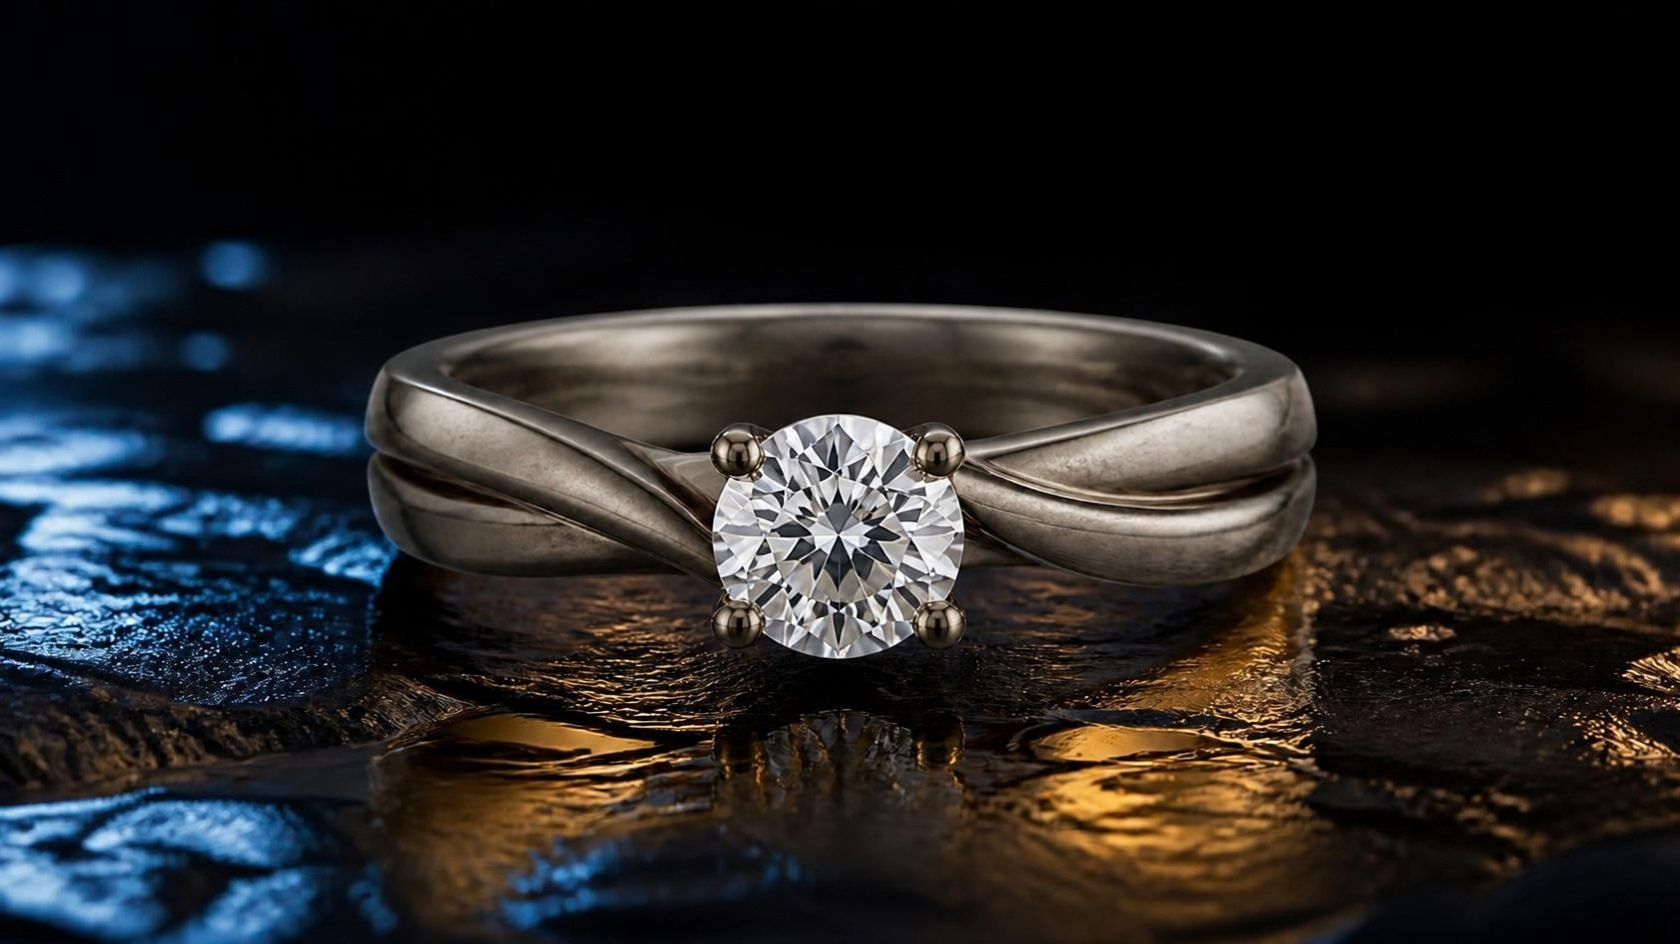
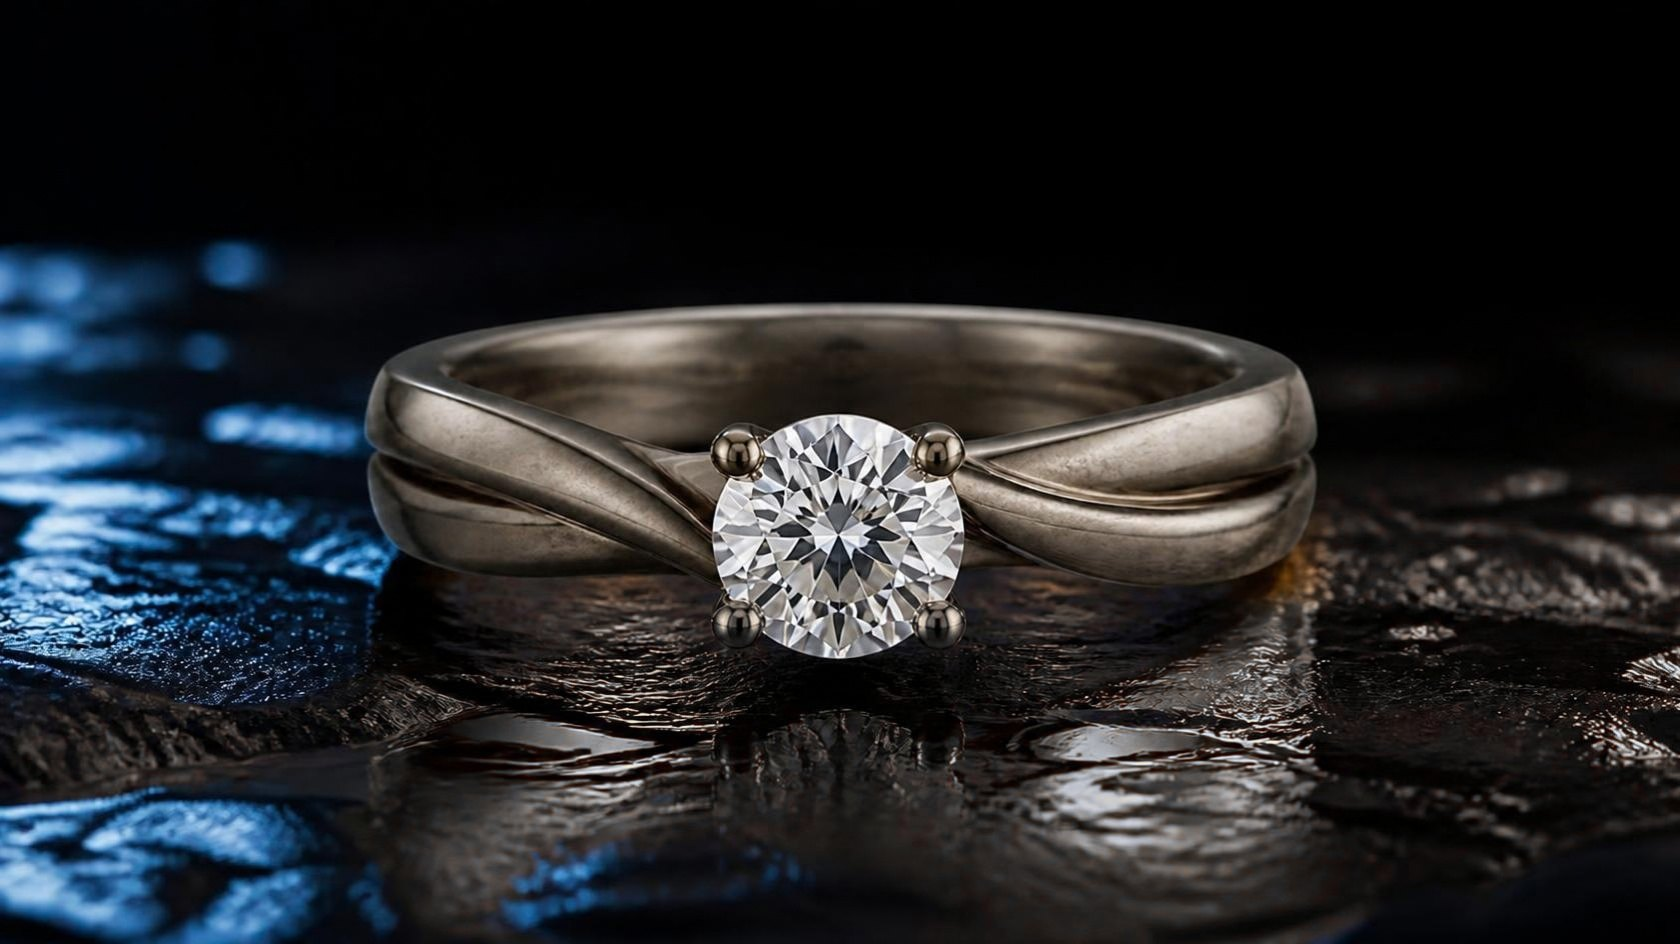
Ajustes do cliente: textos, vírgulas, ícone de conversa, sem ródio, reflexo prateado e Limeira capital da joia folheada

diff --git a/audace-galvanica/index.html b/audace-galvanica/index.html
@@ -16,7 +16,7 @@
   <meta property="og:title" content="Audace Galvânica | Banhos para Semijoias em Limeira-SP">
   <meta property="og:image:width" content="1200">
   <meta property="og:image:height" content="630">
-  <meta property="og:image:alt" content="Kit de semijoias com banho de ródio sobre pedra e água, com o logo da Audace Galvânica">
+  <meta property="og:image:alt" content="Kit de semijoias com acabamento prateado sobre pedra e água, com o logo da Audace Galvânica">
   <meta name="twitter:card" content="summary_large_image">
   <meta name="twitter:title" content="Audace Galvânica | Banhos para Semijoias em Limeira-SP">
   <meta name="twitter:description" content="Consultoria especializada em banhos para semijoias. Entenda quais acabamentos fazem sentido para sua marca, suas peças e o momento do seu negócio.">
@@ -66,10 +66,10 @@
     },
     {
       "@type": "Question",
-      "name": "Qual é a diferença entre banho de ouro, prata e ródio?",
+      "name": "Qual é a diferença entre banho de ouro e prata?",
       "acceptedAnswer": {
         "@type": "Answer",
-        "text": "São acabamentos com aparência e comportamento diferentes. O banho de ouro dá o tom dourado, e sua durabilidade depende principalmente da espessura da camada. O banho de prata tem tom branco e tende a escurecer com o tempo por oxidação, o que costuma pedir uma camada de proteção. O ródio, metal do grupo da platina, tem brilho branco intenso e alta resistência a riscos e ao escurecimento. A escolha certa depende do estilo das peças, do público e do posicionamento da marca, e é isso que a consultoria ajuda a definir."
+        "text": "São acabamentos com aparência e comportamento diferentes. O banho de ouro dá o tom dourado, e sua durabilidade depende principalmente da espessura da camada. O banho de prata tem tom branco e tende a escurecer com o tempo por oxidação, o que costuma pedir uma camada de proteção. A escolha certa depende do estilo das peças, do público e do posicionamento da marca, e é isso que a consultoria ajuda a definir."
       }
     },
     {
@@ -157,7 +157,7 @@
     <!-- ================= 01 HERO ================= -->
     <section class="section hero" id="hero" aria-labelledby="hero-title" data-parallax="3">
       <div class="section__bg">
-        <picture><source type="image/webp" srcset="images/fotos/kit-rodio-pedra-agua_420w.webp 420w, images/fotos/kit-rodio-pedra-agua_700w.webp 700w, images/fotos/kit-rodio-pedra-agua_860w.webp 860w, images/fotos/kit-rodio-pedra-agua_1122w.webp 1122w" sizes="(min-width: 1024px) 62vw, 100vw"><img src="images/fotos/kit-rodio-pedra-agua.jpg" alt="Kit de semijoias com banho de ródio: corrente, pulseira, brincos e anéis sobre pedra escura e água" width="1122" height="1402" fetchpriority="high" decoding="async"></picture>
+        <picture><source type="image/webp" srcset="images/fotos/kit-rodio-pedra-agua_420w.webp 420w, images/fotos/kit-rodio-pedra-agua_700w.webp 700w, images/fotos/kit-rodio-pedra-agua_860w.webp 860w, images/fotos/kit-rodio-pedra-agua_1122w.webp 1122w" sizes="(min-width: 1024px) 62vw, 100vw"><img src="images/fotos/kit-rodio-pedra-agua.jpg" alt="Kit de semijoias com acabamento prateado: corrente, pulseira, brincos e anéis sobre pedra escura e água" width="1122" height="1402" fetchpriority="high" decoding="async"></picture>
       </div>
 
       <div class="container hero__inner">
@@ -189,7 +189,7 @@
     <section class="section consult" id="consultoria" aria-labelledby="consult-title">
       <canvas class="beams" data-beams aria-hidden="true"></canvas>
       <div class="section__bg">
-        <picture><source type="image/webp" srcset="images/fotos/modelo-semijoias-rodio-luz-azul_420w.webp 420w, images/fotos/modelo-semijoias-rodio-luz-azul_700w.webp 700w, images/fotos/modelo-semijoias-rodio-luz-azul_860w.webp 860w, images/fotos/modelo-semijoias-rodio-luz-azul_1122w.webp 1122w" sizes="(min-width: 1024px) 48vw, 100vw"><img src="images/fotos/modelo-semijoias-rodio-luz-azul.jpg" alt="Modelo usando brincos, anéis, pulseira e corrente de semijoias com banho de ródio" width="1122" height="1402" loading="lazy" decoding="async"></picture>
+        <picture><source type="image/webp" srcset="images/fotos/modelo-semijoias-rodio-luz-azul_420w.webp 420w, images/fotos/modelo-semijoias-rodio-luz-azul_700w.webp 700w, images/fotos/modelo-semijoias-rodio-luz-azul_860w.webp 860w, images/fotos/modelo-semijoias-rodio-luz-azul_1122w.webp 1122w" sizes="(min-width: 1024px) 48vw, 100vw"><img src="images/fotos/modelo-semijoias-rodio-luz-azul.jpg" alt="Modelo usando brincos, anéis, pulseira e corrente de semijoias com acabamento prateado" width="1122" height="1402" loading="lazy" decoding="async"></picture>
       </div>
 
       <div class="container split split--media-left">
@@ -213,7 +213,7 @@
         <div class="split__copy">
           <h2 class="display section-title" id="strategy-title" data-reveal>Uma conversa estratégica<br class="br-d"> para <span class="gold">o seu negócio.</span></h2>
           <p class="body-text" data-reveal style="--i:2">Nosso time conversa com você para entender<br class="br-d"> o perfil da sua marca, o posicionamento da sua<br class="br-d"> coleção, o público que deseja alcançar, a realidade<br class="br-d"> da sua operação e os resultados que espera das peças.</p>
-          <p class="body-text" data-reveal style="--i:2">A partir desse diagnóstico, você recebe<br class="br-d"> uma orientação mais estratégica para definir<br class="br-d"> as melhores possibilidades de banho para o seu projeto.</p>
+          <p class="body-text" data-reveal style="--i:2">A partir desse diagnóstico, você recebe<br class="br-d"> uma orientação estratégica para definir<br class="br-d"> as melhores possibilidades de banhos para o seu projeto.</p>
         </div>
         <ul class="side-words strategy__side-words" data-credits aria-label="Pilares da consultoria">
           <li>TÉCNICA</li>
@@ -240,28 +240,28 @@
           </li>
           <li class="benefit" data-reveal>
             <svg class="benefit__icon" aria-hidden="true" focusable="false" xmlns="http://www.w3.org/2000/svg" viewBox="0 0 64 64"><g fill="none" stroke="#887040" stroke-width="3" stroke-linecap="round" stroke-linejoin="round"><circle pathLength="1" cx="30" cy="34" r="20"/><circle pathLength="1" cx="30" cy="34" r="11"/><circle pathLength="1" cx="30" cy="34" r="3"/><path pathLength="1" d="M33 31 53 11M43 11h10v10"/></g></svg>
-            <h3 class="benefit__title">Investimento<br class="br-d"> mais assertivo</h3>
+            <h3 class="benefit__title">Investimento<br class="br-d"> mais assertivo,</h3>
             <p class="benefit__body">evitando escolhas<br class="br-d"> baseadas apenas em<br class="br-d"> preço ou padrão<br class="br-d"> de mercado.</p>
           </li>
           <li class="benefit" data-reveal>
             <svg class="benefit__icon" aria-hidden="true" focusable="false" xmlns="http://www.w3.org/2000/svg" viewBox="0 0 64 64"><g fill="none" stroke="#887040" stroke-width="3" stroke-linecap="round" stroke-linejoin="round"><circle pathLength="1" cx="25" cy="22" r="8"/><circle pathLength="1" cx="43" cy="25" r="6"/><path pathLength="1" d="M10 49c0-9 6-15 15-15s15 6 15 15v3H10zM38 37c8 0 14 5 14 13v2H40"/></g></svg>
-            <h3 class="benefit__title">Orientação<br class="br-d"> personalizada</h3>
+            <h3 class="benefit__title">Orientação<br class="br-d"> personalizada,</h3>
             <p class="benefit__body">considerando as<br class="br-d"> características e<br class="br-d"> objetivos do seu negócio.</p>
           </li>
           <li class="benefit" data-reveal>
             <svg class="benefit__icon" aria-hidden="true" focusable="false" xmlns="http://www.w3.org/2000/svg" viewBox="0 0 64 64"><g fill="none" stroke="#887040" stroke-width="3" stroke-linecap="round" stroke-linejoin="round"><path pathLength="1" d="M12 23 21 12h22l9 11-20 29z"/><path pathLength="1" d="M12 23h40M21 12l11 40 11-40M21 23h22"/></g></svg>
-            <h3 class="benefit__title">Mais coerência<br class="br-d"> entre produto<br class="br-d"> e posicionamento</h3>
+            <h3 class="benefit__title">Mais coerência<br class="br-d"> entre produto<br class="br-d"> e posicionamento,</h3>
             <p class="benefit__body">para que o acabamento<br class="br-d"> das peças converse<br class="br-d"> com a identidade da marca.</p>
           </li>
           <li class="benefit" data-reveal>
             <svg class="benefit__icon" aria-hidden="true" focusable="false" xmlns="http://www.w3.org/2000/svg" viewBox="0 0 64 64"><g fill="none" stroke="#887040" stroke-width="3" stroke-linecap="round" stroke-linejoin="round"><path pathLength="1" d="M10 54h44"/><rect pathLength="1" x="14" y="37" width="8" height="17"/><rect pathLength="1" x="28" y="27" width="8" height="27"/><rect pathLength="1" x="42" y="16" width="8" height="38"/></g></svg>
-            <h3 class="benefit__title">Conhecimento<br class="br-d"> para planejar melhor</h3>
+            <h3 class="benefit__title">Conhecimento<br class="br-d"> para planejar melhor,</h3>
             <p class="benefit__body">entendendo possibilidades,<br class="br-d"> características e cuidados<br class="br-d"> dos diferentes tipos<br class="br-d"> de banho.</p>
           </li>
           <li class="benefit" data-reveal>
-            <svg class="benefit__icon" aria-hidden="true" focusable="false" xmlns="http://www.w3.org/2000/svg" viewBox="0 0 64 64"><g fill="none" stroke="#887040" stroke-width="3" stroke-linecap="round" stroke-linejoin="round"><circle pathLength="1" cx="32" cy="32" r="8"/><path pathLength="1" d="M32 8v7M32 49v7M8 32h7M49 32h7M15 15l5 5M44 44l5 5M49 15l-5 5M20 44l-5 5"/><circle pathLength="1" cx="32" cy="32" r="19"/></g></svg>
+            <svg class="benefit__icon" aria-hidden="true" focusable="false" xmlns="http://www.w3.org/2000/svg" viewBox="0 0 64 64"><g fill="none" stroke="#887040" stroke-width="3" stroke-linecap="round" stroke-linejoin="round"><path pathLength="1" d="M13 12h38a5 5 0 0 1 5 5v22a5 5 0 0 1-5 5H29l-11 9v-9h-5a5 5 0 0 1-5-5V17a5 5 0 0 1 5-5z"/><path pathLength="1" d="M22 28h.01M32 28h.01M42 28h.01"/></g></svg>
             <h3 class="benefit__title">Conversa com<br class="br-d"> quem entende</h3>
-            <p class="benefit__body">com experiência prática<br class="br-d"> em galvanoplastia<br class="br-d"> de semijoias.</p>
+            <p class="benefit__body">e tem experiência prática<br class="br-d"> em galvanoplastia<br class="br-d"> de semijoias.</p>
           </li>
         </ul>
       </div>
@@ -279,7 +279,7 @@
           <li class="step" data-reveal>
             <div class="step__visual">
               <span class="step__number" aria-hidden="true">01</span>
-              <figure class="step__media"><picture><source type="image/webp" srcset="images/fotos/modelo-semijoias-rodio-olhar_420w.webp 420w, images/fotos/modelo-semijoias-rodio-olhar_700w.webp 700w, images/fotos/modelo-semijoias-rodio-olhar_860w.webp 860w, images/fotos/modelo-semijoias-rodio-olhar_1122w.webp 1122w" sizes="(min-width: 1024px) 24vw, (min-width: 768px) 33vw, 100vw"><img src="images/fotos/modelo-semijoias-rodio-olhar.jpg" alt="Modelo usando semijoias com banho de ródio, representando a identidade da marca" width="1122" height="1402" loading="lazy" decoding="async"></picture></figure>
+              <figure class="step__media"><picture><source type="image/webp" srcset="images/fotos/modelo-semijoias-rodio-olhar_420w.webp 420w, images/fotos/modelo-semijoias-rodio-olhar_700w.webp 700w, images/fotos/modelo-semijoias-rodio-olhar_860w.webp 860w, images/fotos/modelo-semijoias-rodio-olhar_1122w.webp 1122w" sizes="(min-width: 1024px) 24vw, (min-width: 768px) 33vw, 100vw"><img src="images/fotos/modelo-semijoias-rodio-olhar.jpg" alt="Modelo usando semijoias com acabamento prateado, representando a identidade da marca" width="1122" height="1402" loading="lazy" decoding="async"></picture></figure>
             </div>
             <h3 class="step__title"><span class="visually-hidden">Etapa 1: </span>Entendemos<br class="br-d"> sua marca</h3>
             <p class="step__body">Conversamos sobre o seu<br class="br-d"> posicionamento, público,<br class="br-d"> estilo das peças e objetivos.</p>
@@ -287,7 +287,7 @@
           <li class="step" data-reveal>
             <div class="step__visual">
               <span class="step__number" aria-hidden="true">02</span>
-              <figure class="step__media"><picture><source type="image/webp" srcset="images/fotos/kit-semijoias-rodio-zirconias_420w.webp 420w, images/fotos/kit-semijoias-rodio-zirconias_700w.webp 700w, images/fotos/kit-semijoias-rodio-zirconias_860w.webp 860w, images/fotos/kit-semijoias-rodio-zirconias_1122w.webp 1122w" sizes="(min-width: 1024px) 24vw, (min-width: 768px) 33vw, 100vw"><img src="images/fotos/kit-semijoias-rodio-zirconias.jpg" alt="Kit de corrente, pulseira, brincos e anéis com banho de ródio para análise" width="1122" height="1402" loading="lazy" decoding="async"></picture></figure>
+              <figure class="step__media"><picture><source type="image/webp" srcset="images/fotos/kit-semijoias-rodio-zirconias_420w.webp 420w, images/fotos/kit-semijoias-rodio-zirconias_700w.webp 700w, images/fotos/kit-semijoias-rodio-zirconias_860w.webp 860w, images/fotos/kit-semijoias-rodio-zirconias_1122w.webp 1122w" sizes="(min-width: 1024px) 24vw, (min-width: 768px) 33vw, 100vw"><img src="images/fotos/kit-semijoias-rodio-zirconias.jpg" alt="Kit de corrente, pulseira, brincos e anéis com acabamento prateado para análise" width="1122" height="1402" loading="lazy" decoding="async"></picture></figure>
             </div>
             <h3 class="step__title"><span class="visually-hidden">Etapa 2: </span>Analisamos<br class="br-d"> o projeto</h3>
             <p class="step__body">Avaliamos suas peças,<br class="br-d"> sua operação e o momento<br class="br-d"> do seu negócio.</p>
@@ -320,7 +320,7 @@
           <div class="compare__handle" aria-hidden="true"><span class="compare__knob"><svg viewBox="0 0 24 24" width="22" height="22" fill="none" stroke="currentColor" stroke-width="2" stroke-linecap="round" stroke-linejoin="round"><path d="M9 6l-6 6 6 6M15 6l6 6-6 6"/></svg></span></div>
           <input class="compare__range" type="range" min="0" max="100" value="50" step="1" aria-label="Comparar o anel bruto com o anel banhado a ouro">
         </div>
-        <p class="compare__note">Imagem ilustrativa do processo.</p>
+        <p class="compare__note">Imagem meramente ilustrativa.</p>
       </div>
     </section>
 
@@ -360,7 +360,7 @@
         <div class="cta-form__statement">
           <p class="display statement statement--large" data-reveal data-gold-progress>Seu banho não precisa<br class="br-d"> seguir uma receita pronta. <span class="gold">Precisa fazer sentido<br class="br-d"> para o seu negócio.</span></p>
           <figure class="cta-form__media">
-            <picture><source type="image/webp" srcset="images/fotos/kit-semijoias-pedra-luz-azul_420w.webp 420w, images/fotos/kit-semijoias-pedra-luz-azul_700w.webp 700w, images/fotos/kit-semijoias-pedra-luz-azul_860w.webp 860w, images/fotos/kit-semijoias-pedra-luz-azul_1122w.webp 1122w" sizes="(min-width: 1024px) 52vw, 100vw"><img src="images/fotos/kit-semijoias-pedra-luz-azul.jpg" alt="Kit de semijoias com banho de ródio sobre pedra escura, com luz azul" width="1122" height="1402" loading="lazy" decoding="async"></picture>
+            <picture><source type="image/webp" srcset="images/fotos/kit-semijoias-pedra-luz-azul_420w.webp 420w, images/fotos/kit-semijoias-pedra-luz-azul_700w.webp 700w, images/fotos/kit-semijoias-pedra-luz-azul_860w.webp 860w, images/fotos/kit-semijoias-pedra-luz-azul_1122w.webp 1122w" sizes="(min-width: 1024px) 52vw, 100vw"><img src="images/fotos/kit-semijoias-pedra-luz-azul.jpg" alt="Kit de semijoias com acabamento prateado sobre pedra escura, com luz azul" width="1122" height="1402" loading="lazy" decoding="async"></picture>
           </figure>
         </div>
 
@@ -436,7 +436,7 @@
       <div class="container faq__inner">
         <header class="faq__head" data-reveal>
           <p class="eyebrow">PERGUNTAS FREQUENTES</p>
-          <h2 class="display section-title" id="faq-title">Dúvidas sobre banhos para semijoias e a consultoria.</h2>
+          <h2 class="display section-title" id="faq-title">Dúvidas sobre a consultoria e banhos para semijoias.</h2>
           <a class="faq__cta" href="#formulario">Solicitar consultoria <img class="btn__icon" src="icons/svg/arrow_right.svg" alt="" aria-hidden="true" width="16" height="16"></a>
         </header>
         <div class="faq__list" data-reveal style="--i:1">
@@ -453,8 +453,8 @@
             <p class="faq__a">Não. A consultoria atende quem já trabalha com semijoias, quem está começando e quem está estruturando a própria marca. No formulário você indica em qual desses momentos está.</p>
           </details>
           <details class="faq__item">
-            <summary><h3 class="faq__q">Qual é a diferença entre banho de ouro, prata e ródio?</h3></summary>
-            <p class="faq__a">São acabamentos com aparência e comportamento diferentes. O banho de ouro dá o tom dourado, e sua durabilidade depende principalmente da espessura da camada. O banho de prata tem tom branco e tende a escurecer com o tempo por oxidação, o que costuma pedir uma camada de proteção. O ródio, metal do grupo da platina, tem brilho branco intenso e alta resistência a riscos e ao escurecimento. A escolha certa depende do estilo das peças, do público e do posicionamento da marca, e é isso que a consultoria ajuda a definir.</p>
+            <summary><h3 class="faq__q">Qual é a diferença entre banho de ouro e prata?</h3></summary>
+            <p class="faq__a">São acabamentos com aparência e comportamento diferentes. O banho de ouro dá o tom dourado, e sua durabilidade depende principalmente da espessura da camada. O banho de prata tem tom branco e tende a escurecer com o tempo por oxidação, o que costuma pedir uma camada de proteção. A escolha certa depende do estilo das peças, do público e do posicionamento da marca, e é isso que a consultoria ajuda a definir.</p>
           </details>
           <details class="faq__item">
             <summary><h3 class="faq__q">Do que depende a durabilidade do banho de uma semijoia?</h3></summary>
@@ -473,8 +473,8 @@
       <canvas class="beams" data-beams aria-hidden="true"></canvas>
       <div class="container place__inner">
         <div class="place__copy" data-reveal>
-          <p class="eyebrow">ONDE ESTAMOS</p>
-          <h2 class="display section-title" id="place-title">Estamos em Limeira, <span class="gold">no interior de São Paulo.</span></h2>
+          <p class="eyebrow">NOSSA LOCALIZAÇÃO</p>
+          <h2 class="display section-title" id="place-title">Estamos em Limeira, <span class="gold">capital da joia folheada.</span></h2>
           <address class="place__address">
             Av. Marechal Floriano Peixoto, 176<br>
             Parque Hipolyto, Limeira - SP<br>
@@ -486,7 +486,7 @@
             <a class="btn btn--line" href="https://wa.me/5519994555679" target="_blank" rel="noopener"><img class="btn__icon" src="icons/svg/whatsapp.svg" alt="" aria-hidden="true" width="16" height="16"> FALAR NO WHATSAPP</a>
           </div>
         </div>
-        <figure class="place__media" data-reveal style="--i:1"><picture><source type="image/webp" srcset="images/fotos/kit-semijoias-rodio-zirconias_420w.webp 420w, images/fotos/kit-semijoias-rodio-zirconias_700w.webp 700w, images/fotos/kit-semijoias-rodio-zirconias_860w.webp 860w, images/fotos/kit-semijoias-rodio-zirconias_1122w.webp 1122w" sizes="(min-width: 1024px) 50vw, 100vw"><img src="images/fotos/kit-semijoias-rodio-zirconias.jpg" alt="Semijoias com banho de ródio: corrente, pulseira, brincos e anéis" width="1122" height="1402" loading="lazy" decoding="async"></picture></figure>
+        <figure class="place__media" data-reveal style="--i:1"><picture><source type="image/webp" srcset="images/fotos/kit-semijoias-rodio-zirconias_420w.webp 420w, images/fotos/kit-semijoias-rodio-zirconias_700w.webp 700w, images/fotos/kit-semijoias-rodio-zirconias_860w.webp 860w, images/fotos/kit-semijoias-rodio-zirconias_1122w.webp 1122w" sizes="(min-width: 1024px) 50vw, 100vw"><img src="images/fotos/kit-semijoias-rodio-zirconias.jpg" alt="Semijoias com acabamento prateado: corrente, pulseira, brincos e anéis" width="1122" height="1402" loading="lazy" decoding="async"></picture></figure>
         <div class="place__map" data-reveal style="--i:2">
           <iframe tabindex="-1" title="Mapa com a localização da Audace Galvânica em Limeira - SP" src="https://www.google.com/maps?q=AUDACE+GALV%C3%82NICA+-+Banho+de+Semijoias,+Av.+Marechal+Floriano+Peixoto,+176+-+Parque+Hipolyto,+Limeira+-+SP,+13486-554&amp;output=embed" loading="lazy" referrerpolicy="no-referrer-when-downgrade" allowfullscreen></iframe>
           <a class="place__map-link" href="https://www.google.com/maps/search/?api=1&amp;query=AUDACE+GALV%C3%82NICA+-+Banho+de+Semijoias,+Av.+Marechal+Floriano+Peixoto,+176+-+Parque+Hipolyto,+Limeira+-+SP,+13486-554" target="_blank" rel="noopener" aria-label="Abrir a Audace Galvânica no Google Maps (abre em nova aba)">
